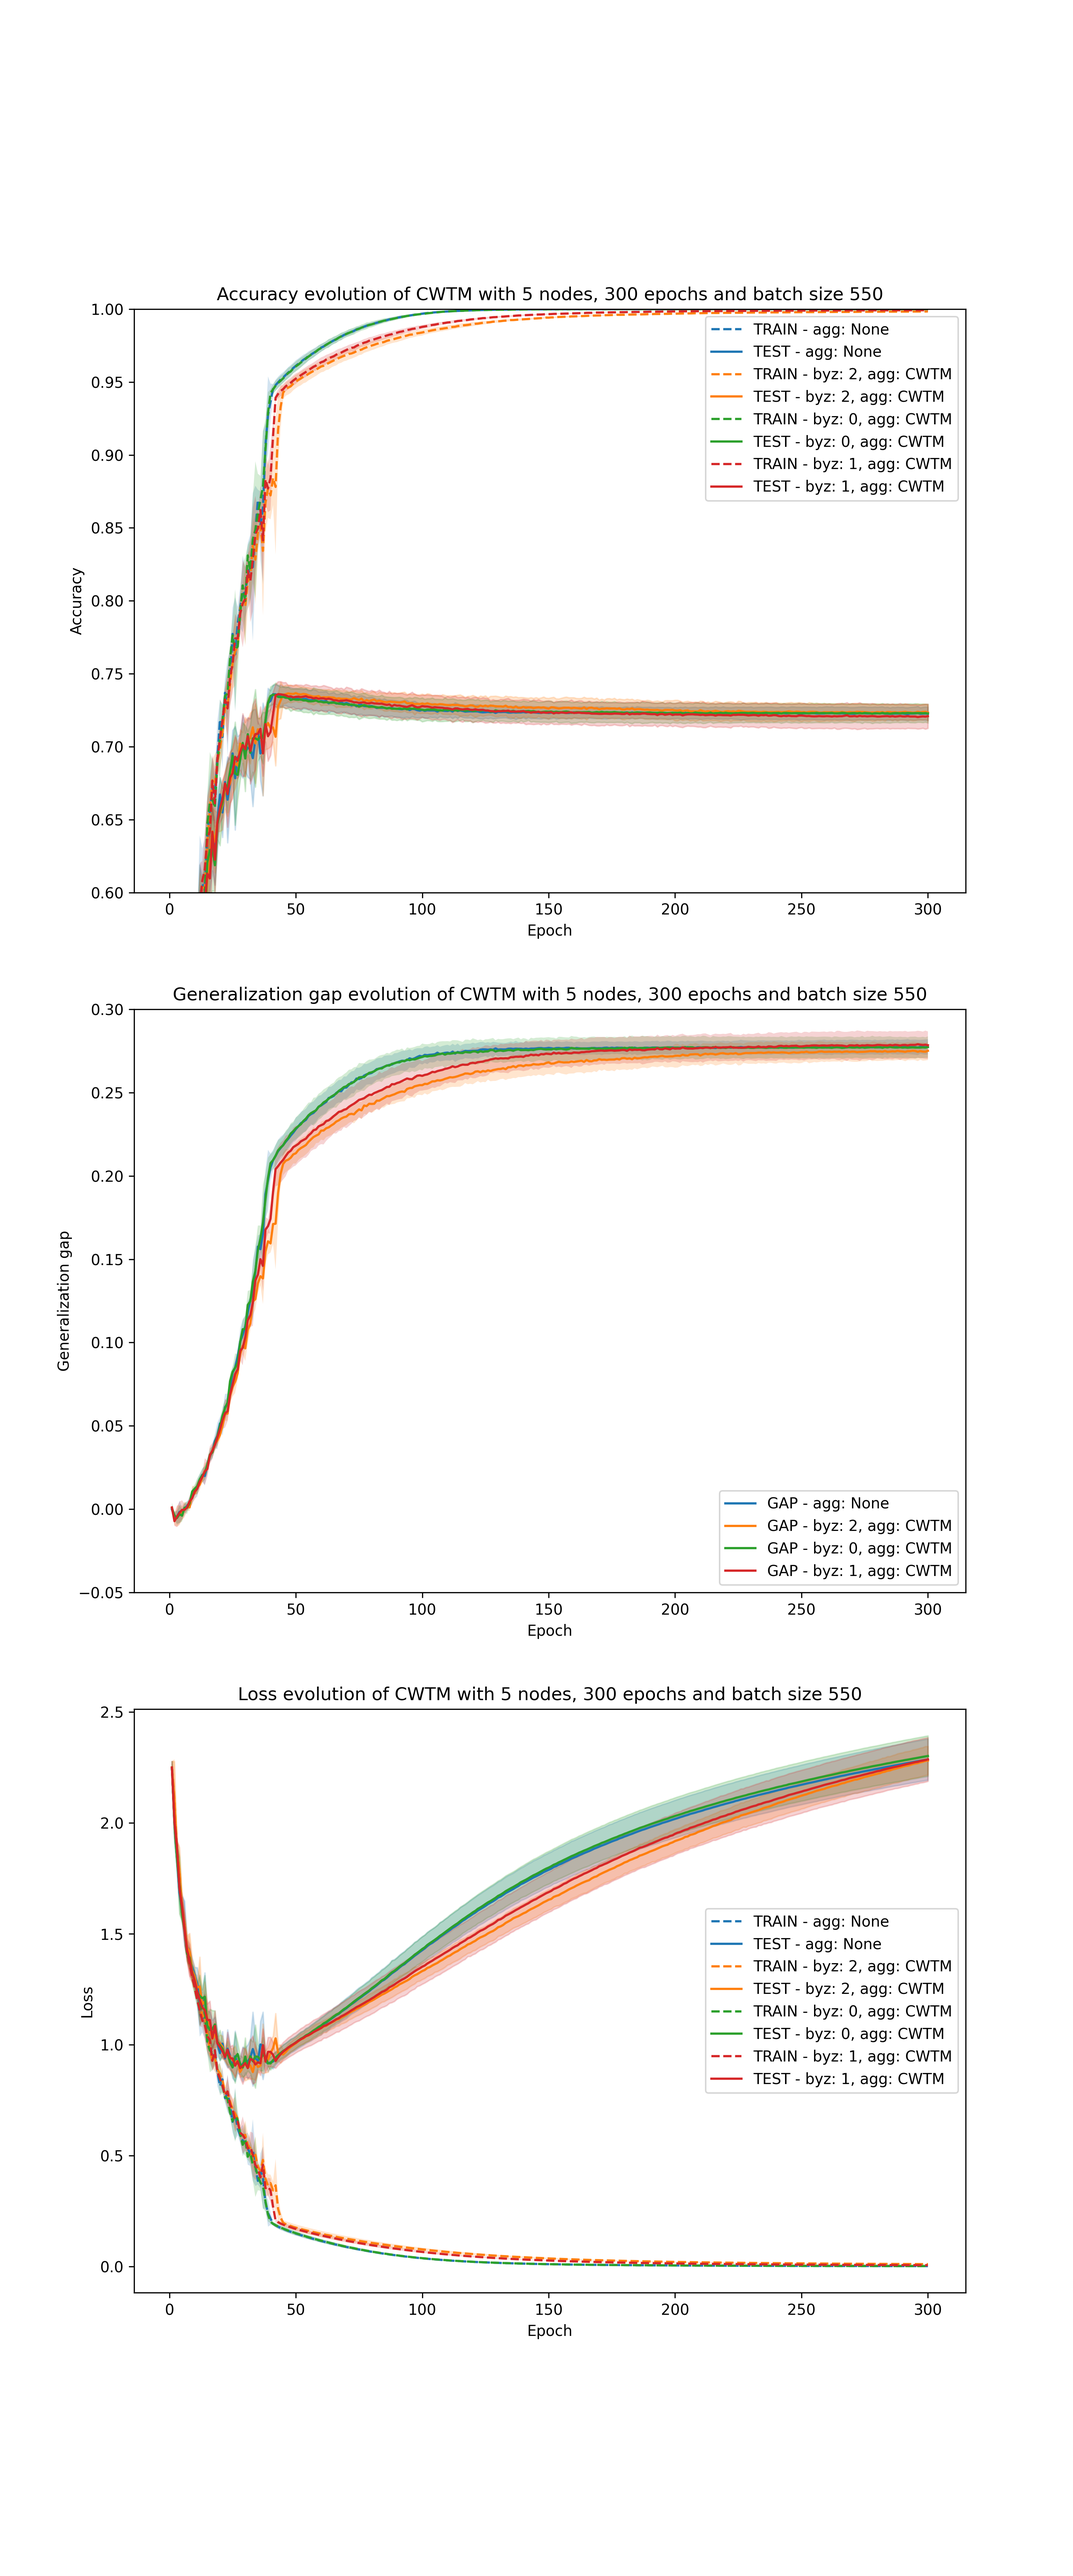
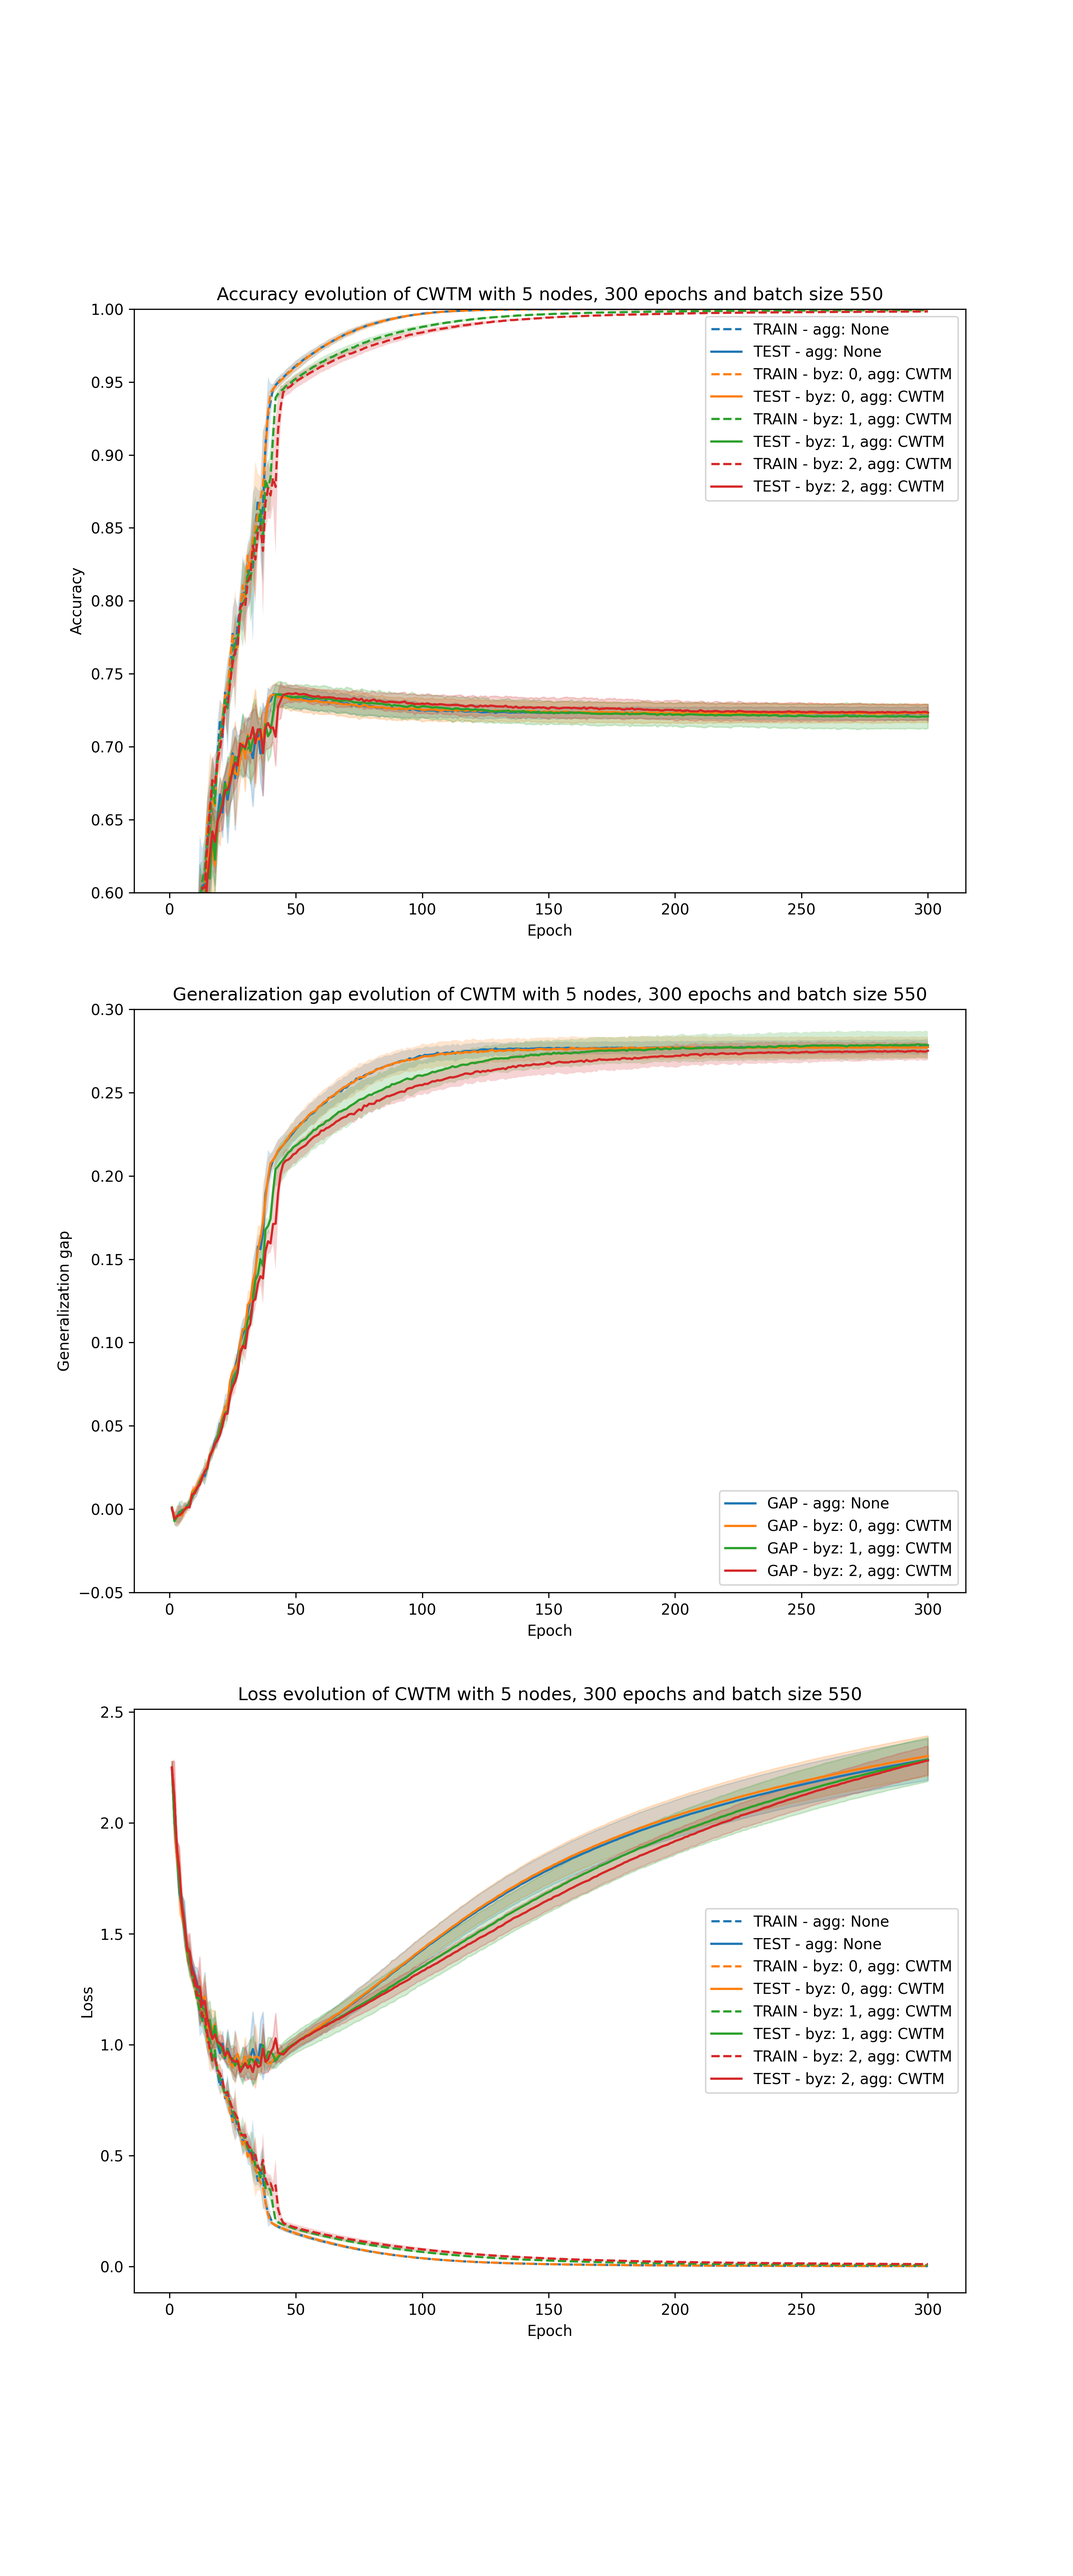
update graph with sorted legend

diff --git a/src/visu.py b/src/visu.py
@@ -106,7 +106,7 @@ def plot():
                            loss_test_mean_none.values + loss_test_std_none.values, alpha=0.2,
                            color=ax[0].get_lines()[-1].get_color())
 
-        for nb_byz in group['nb_byz'].unique():
+        for nb_byz in group['nb_byz'].sort_values().unique():
             group_byz = group[group['nb_byz'] == nb_byz]
 
             # accuracy
